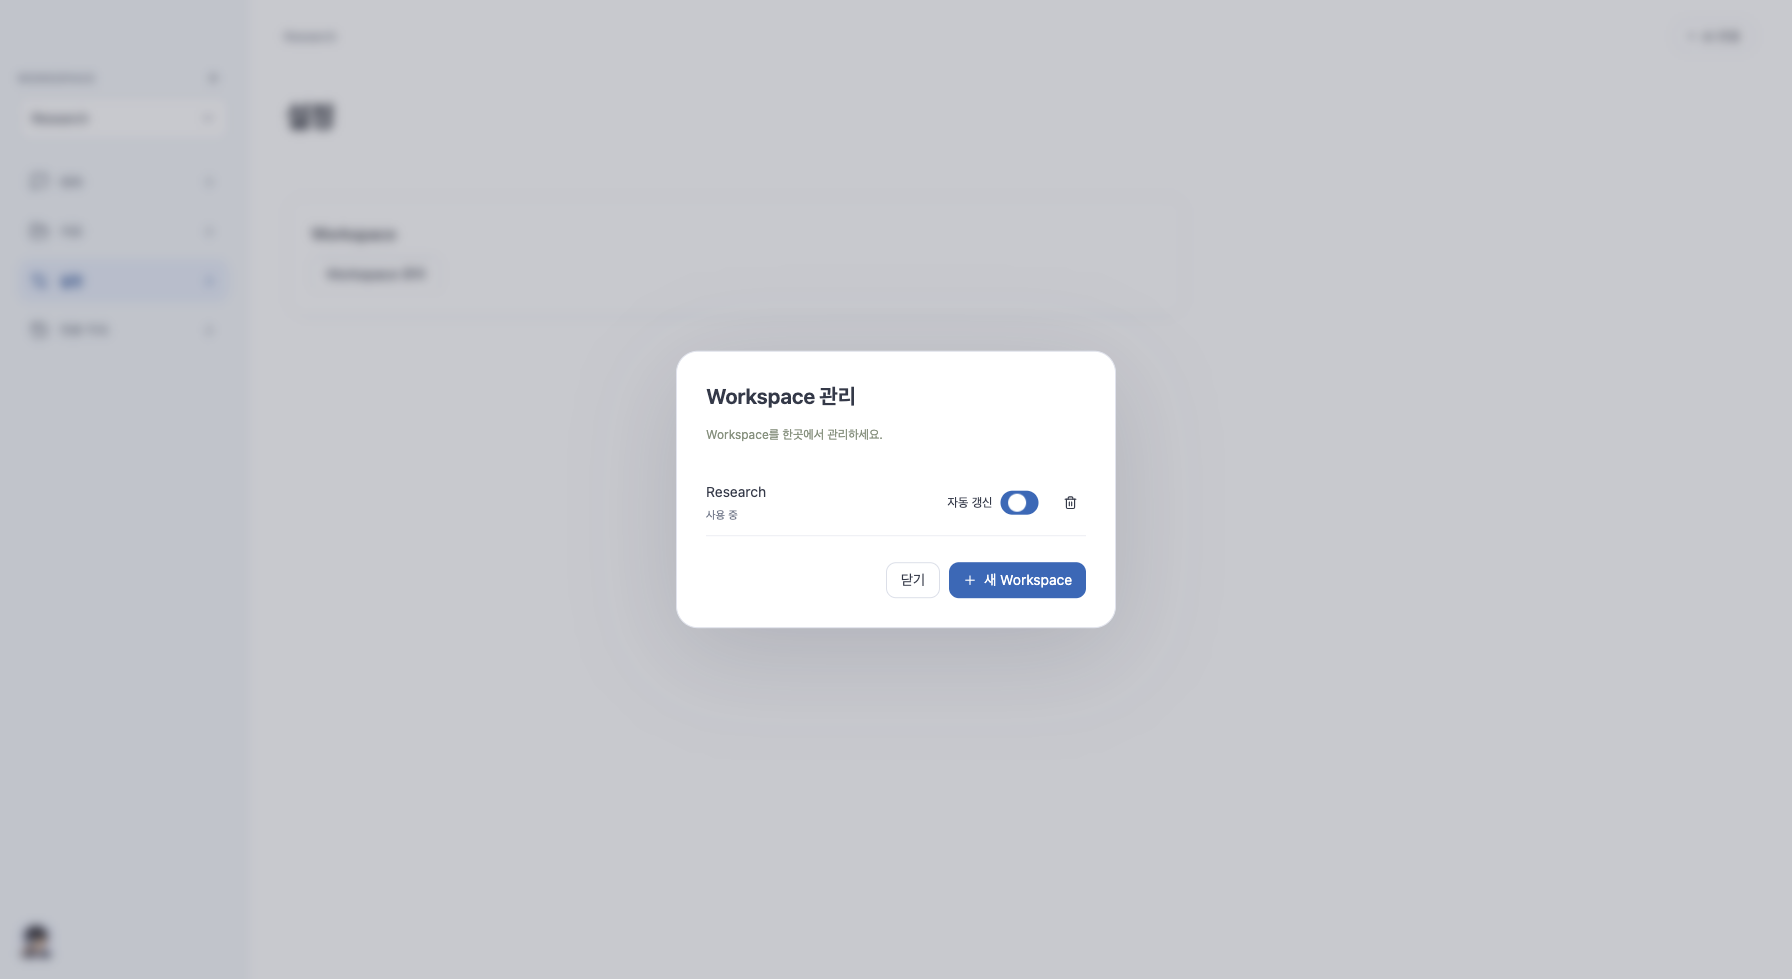
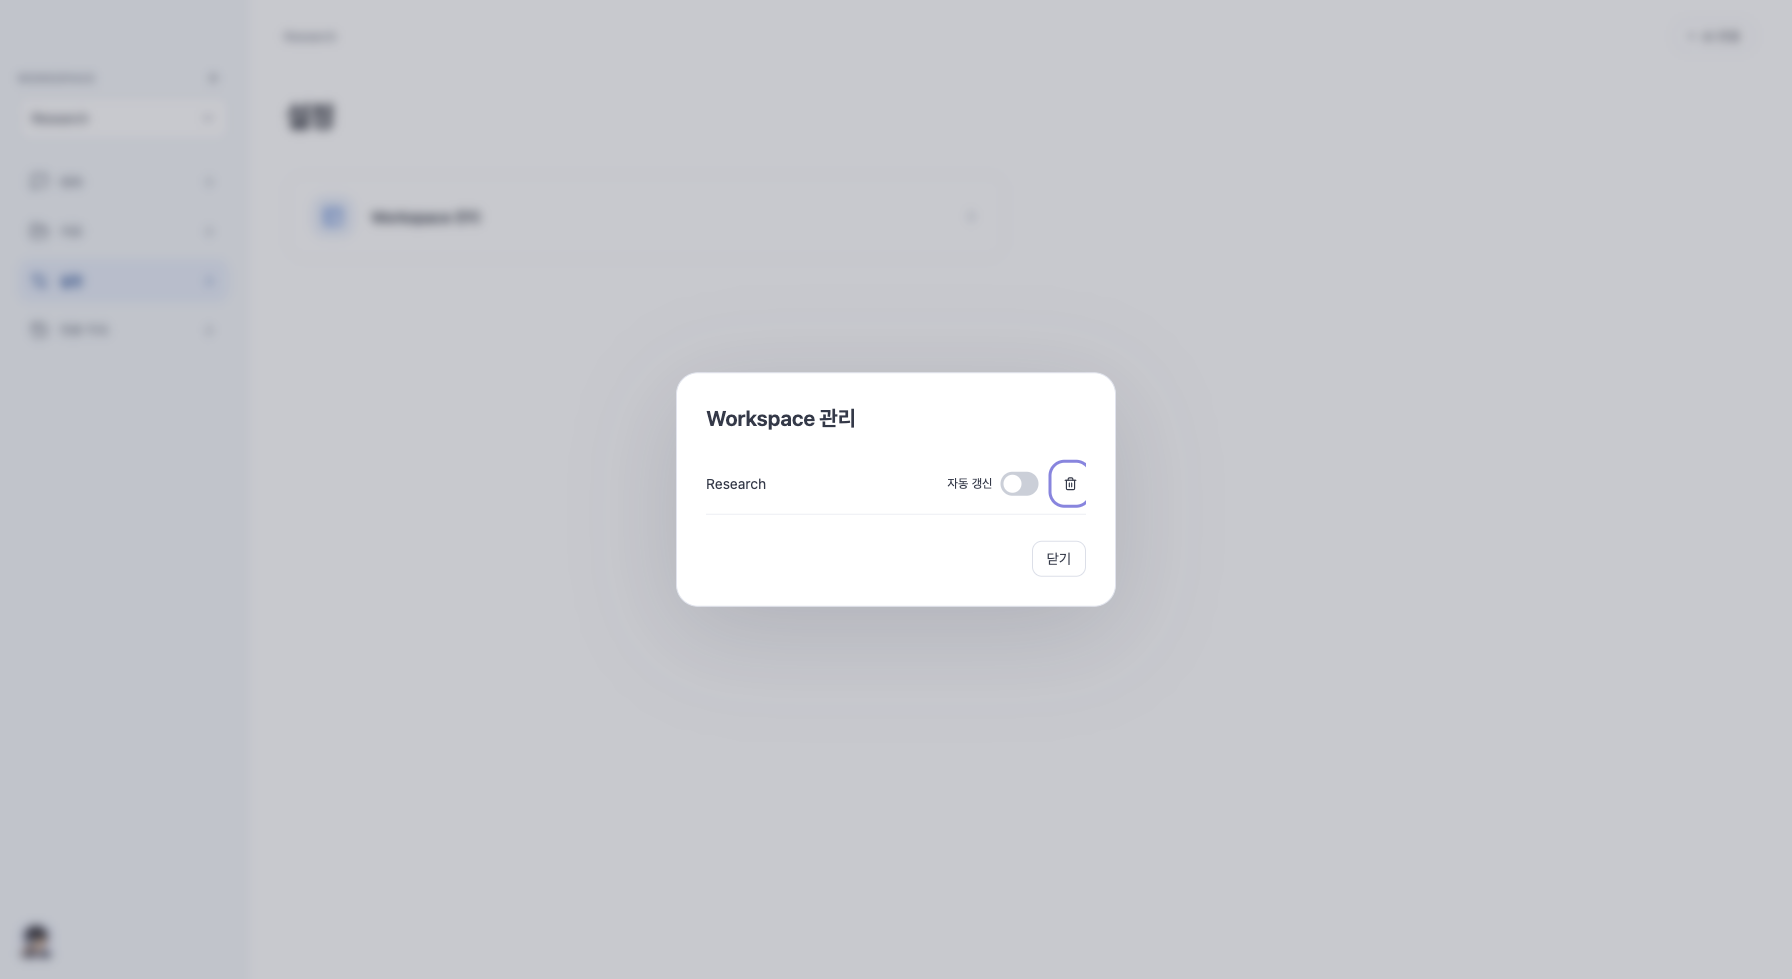
docs: verify and publish Dougle 0.1.15 settings refresh

diff --git a/docs/release-0.1.15-report.md b/docs/release-0.1.15-report.md
@@ -4,8 +4,12 @@
 
 설정 화면은 중복 Workspace 제목/작은 버튼 대신 아이콘·이름·화살표가 정렬된 단일 클릭 행으로 정리했습니다. 관리창에서 설명 문구·‘새 Workspace’ 버튼·‘사용 중’ 표시를 제거하고 이름·자동 갱신·삭제·닫기만 남겼습니다. 새 Workspace는 기존 사이드바 +로 만듭니다. 설명이 없는 관리창의 접근성 참조도 제거했으며 제목·키보드 포커스는 유지합니다.
 
-초기 0.1.15 로컬 설치 후 추가 피드백을 같은 미공개 버전에 반영 중입니다. 초기 초안 자산은 제거하고 새 JAR로 재검증·교체합니다.
+최종 앱 소스는 `f34bd4e`입니다. 자산 10개의 크기·SHA-256 일치를 확인하고 [v0.1.15-preview.1](https://github.com/thisisnew/dougle/releases/tag/v0.1.15-preview.1)을 공개했습니다. 공개 자산의 서명·해시를 재검증한 뒤 업데이트 피드를 0.1.15로 승격했습니다. 추가 피드백을 같은 미공개 버전에 반영하고 초기 초안 자산을 새 JAR 기반 패키지로 교체했습니다.
 
-UI 전체 264건(App 13건 포함)·Rust 20건·TypeScript/Vite/JAR·양 CPU 네이티브 빌드를 통과했습니다. 실제 브라우저에서 새 문구 한 줄, 반복 설명 없음, 가로 넘침 없음을 확인했습니다. 가상 추론 호출 0회입니다. 양 CPU 패키지 검증 및 재설치를 진행합니다. 이전 Java 전체 검사의 기존 종료/임시 폴더 정리 오류는 [0.1.14 보고서](release-0.1.14-report.md)에 기록되어 있으며 이번 문구 변경으로 해결된 것으로 보고하지 않습니다. 백엔드 소스는 변경하지 않았고 Java 전체 검사를 다시 수행하지 않았습니다. ARM 실기기·외부 AI·Apple 공증은 별도입니다.
+UI 전체 264건(App 13건 포함)·Rust 20건·TypeScript/Vite/JAR·양 CPU 네이티브 빌드를 통과했습니다. 실제 브라우저에서 새 문구 한 줄, 반복 설명 없음, 가로 넘침 없음을 확인했습니다. 가상 추론 호출 0회입니다. 최종 설정 행 변경 후 App 13건을 별도 재검사했습니다(전체 수에 중복 합산하지 않음). 실제 브라우저에서 설정 행의 Enter 진입, 관리창의 불필요한 문구·중첩 버튼·설명 참조 제거를 확인했습니다. 양 CPU 패키지 서명·해시·정적 검사와 Intel 설치 복사본의 실제 WebKit UI 검사를 통과했습니다. 이 Mac 앱/DB 백업 후 최종 0.1.15를 재설치했으며 설치 JAR 일치·화면 HTTP 200·미인증 API 403을 확인했습니다. 자료·인증은 보존했습니다. 이전 Java 전체 검사의 기존 종료/임시 폴더 정리 오류는 [0.1.14 보고서](release-0.1.14-report.md)에 기록되어 있으며 이번 문구 변경으로 해결된 것으로 보고하지 않습니다. 백엔드 소스는 변경하지 않았고 Java 전체 검사를 다시 수행하지 않았습니다. ARM 실기기·외부 AI·Apple 공증은 별도입니다.
+
+![정리한 설정 화면](images/settings-overview.png)
+
+![간결한 Workspace 관리](images/settings-simple.png)
 
 ![간결한 빈 자료 화면](images/library-empty.png)

diff --git a/HANDOFF.md b/HANDOFF.md
@@ -1,8 +1,8 @@
 # Knowledge Forge — 이어서 작업하기
 
-## 0.1.15 문구 간소화 진행 중
+## 최신: 0.1.15 설정 정리 · DB v23
 
-자료 빈 화면을 ‘자료를 추가해 보세요’ 한 줄로 정리합니다. App 회귀 13건 통과, 패키지 재빌드·검증 중입니다. [실제 상태](docs/release-0.1.15-report.md).
+설정을 아이콘·이름·화살표 단일 클릭 행으로 정리하고 관리창의 반복 안내·새 Workspace 버튼·사용 중 표시를 제거했습니다. 자료 빈 화면도 한 줄로 정리했습니다. 최종 앱 소스 `f34bd4e`, UI 264·최종 App 13 재검사·Rust 20·Intel 설치 UI·양 CPU 서명/정적 검사 통과. 최종 로컬 재설치 및 UI 200/API 403 확인 완료. 자산 10개의 크기·해시를 대조해 `v0.1.15-preview.1`을 공개했습니다. 공개 자산 서명/해시 재검증 후 업데이트 피드도 0.1.15로 승격했습니다. 백엔드·DB v23·인증은 유지하며 기존 Java 전체 검사 실패는 해결된 것으로 보고하지 않습니다. [실제 상태](docs/release-0.1.15-report.md).
 
 ## 최신: 0.1.14 화면 간소화 · DB v23
 

diff --git a/docs/phase-plan.md b/docs/phase-plan.md
@@ -1,8 +1,8 @@
 # Phase 완료 기준과 현재 상태
 
-## 0.1.15 문구 간소화 진행 중
+## 최신: Dougle 0.1.15 설정 정리 완료
 
-자료 빈 화면의 반복 안내를 한 줄로 줄입니다. [검증·설치 상태](release-0.1.15-report.md). 기능·DB는 유지합니다.
+설정 진입점을 단일 클릭 행으로 정리하고 Workspace 관리창의 불필요한 문구/버튼 및 자료 빈 화면의 반복 안내를 제거했습니다. UI 264·최종 App 13 재검사·Rust 20·Intel 실행·양 CPU 패키지 검사 통과. 최종 로컬 재설치와 자산 10개 해시 대조 후 0.1.15 공개 완료. [검증·설치 상태](release-0.1.15-report.md). 기능·DB v23·인증은 유지합니다.
 
 ## 최신: Dougle 0.1.14 공개 · DB v23
 

diff --git a/docs/README.md b/docs/README.md
@@ -1,6 +1,6 @@
 # 문서 안내 — 어디부터 읽으면 되나요?
 
-[통합 자료 목록·전체 동기화·설정](library-simplification.md) · [0.1.14 검증과 배포](release-0.1.14-report.md)
+[통합 자료 목록·전체 동기화·설정](library-simplification.md) · [0.1.15 설정 정리·검증과 배포](release-0.1.15-report.md)
 
 [질문에 이미지·문서 첨부하기](question-attachments.md) · [Dougle 로고·디자인](dougle-brand.md)
 
